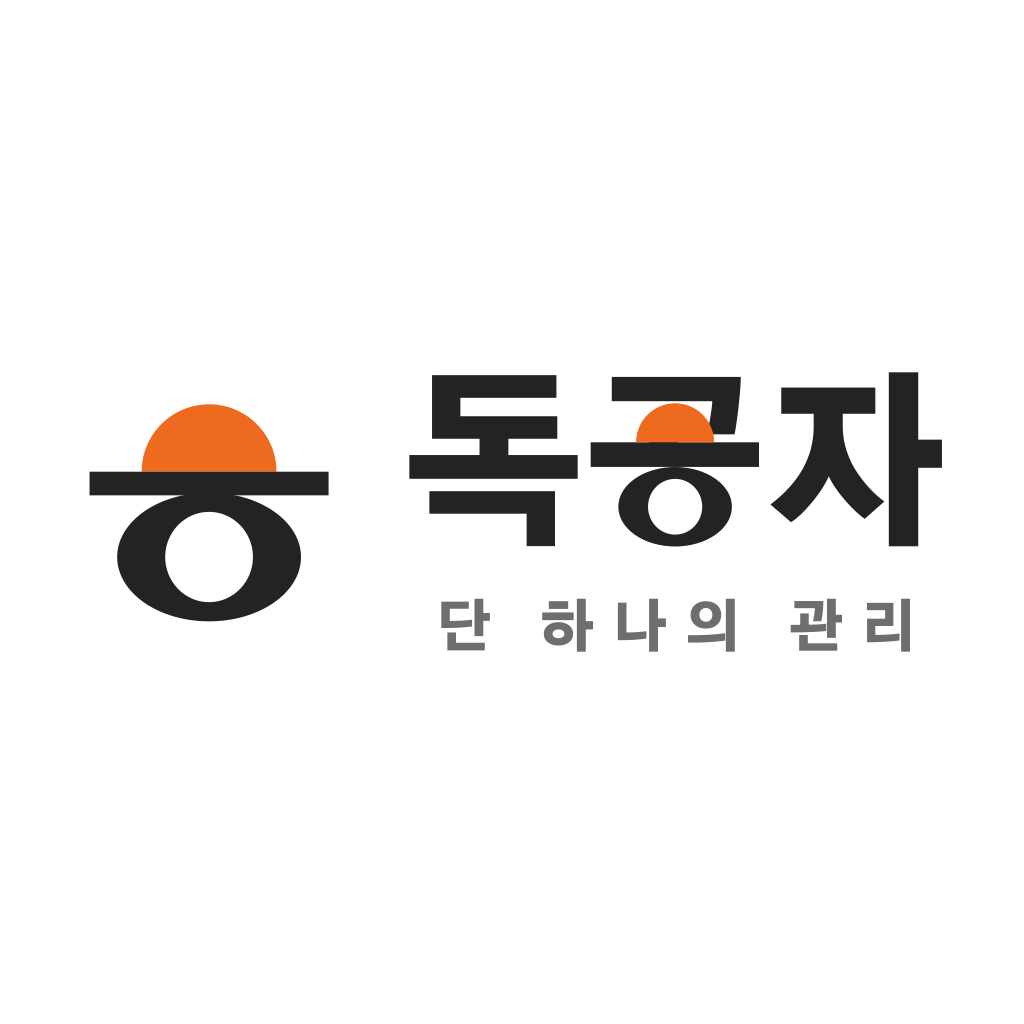
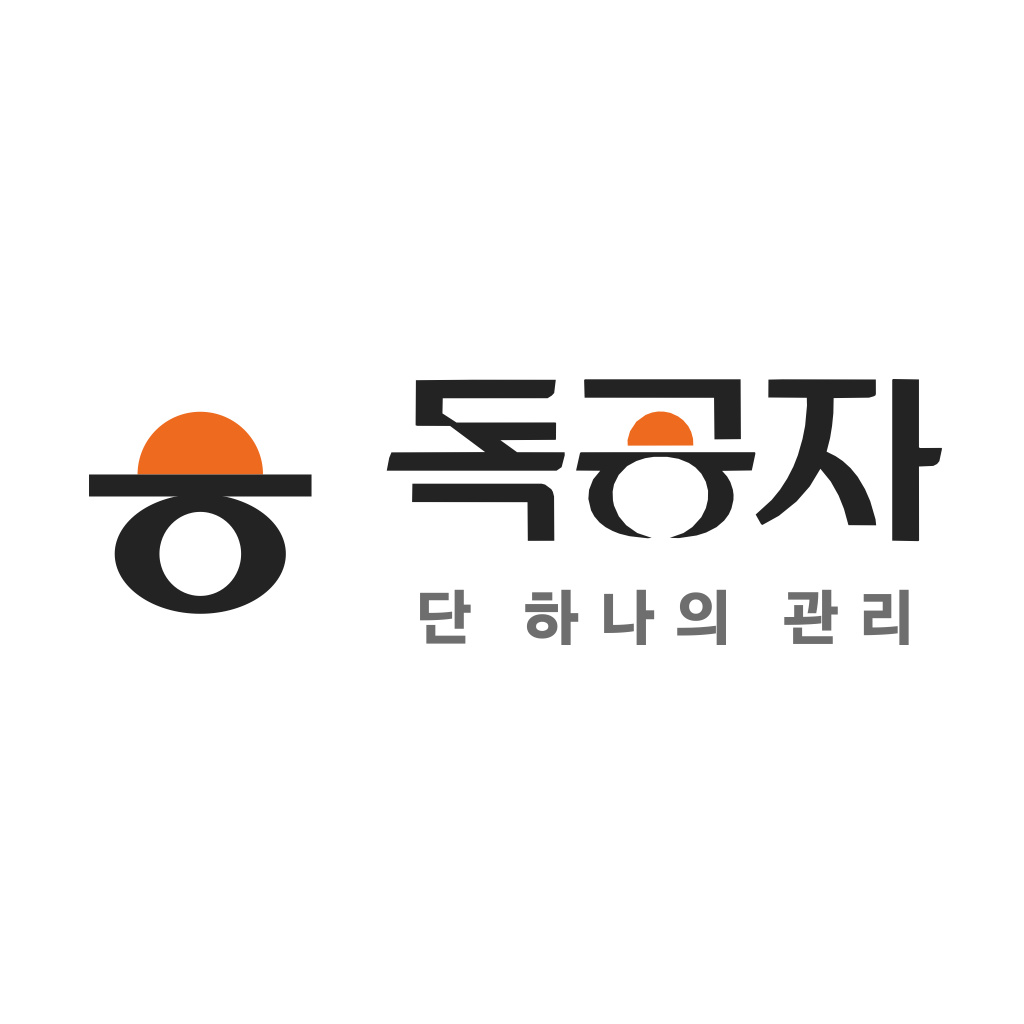
로고타입을 시안 자형 그대로 교체
서체로는 시안의 자형을 맞출 수 없어 — 시안의 글자는 어떤 서체에도
없는 형태다 — 시안 이미지를 벡터로 추출해 로고타입으로 삼는다.

- 6배 업스케일 후 경계 추적 + 허용오차 0.9px 단순화로 계단과 흔들림 제거
- 독의 꺾인 ㄷ, 공의 납작한 받침 ㅇ, 자의 벌어진 ㅈ 사선까지 시안과 동일
- 태그라인 '단 하나의 관리'만 Gothic A1 유지
- 가이드·홈페이지의 로고타입 비율(3.425)과 CSS 폭, 전달폴더 전부 재생성

diff --git a/site/index.html b/site/index.html
@@ -52,7 +52,7 @@ header.nav{position:sticky;top:env(safe-area-inset-top,0px);z-index:50;backgroun
   border-bottom:1px solid rgba(246,245,243,.12)}
 .nav .in{display:flex;align-items:center;gap:20px;padding-block:13px}
 .brand{display:flex;align-items:center;gap:11px;text-decoration:none;margin-right:auto}
-.brand .wm{display:block;height:auto;width:101px}
+.brand .wm{display:block;height:auto;width:113px}
 .navlinks{display:none;gap:26px}
 @media(min-width:860px){.navlinks{display:flex}}
 .navlinks a{color:var(--onDark-dim);text-decoration:none;font-size:14px;font-weight:500}
@@ -249,7 +249,7 @@ footer{background:var(--ink);color:var(--onDark-dim);padding-block:0 56px;font-s
 .sig{text-align:center;padding-block:clamp(56px,9vw,88px) clamp(48px,7vw,72px);
   border-bottom:1px solid rgba(246,245,243,.12)}
 .sig svg{display:block;margin:0 auto;--mk-ink:#F6F5F3}
-.signame{display:block;margin:clamp(24px,3.4vw,34px) auto 0;width:min(278px,64vw);height:auto;
+.signame{display:block;margin:clamp(24px,3.4vw,34px) auto 0;width:min(312px,66vw);height:auto;
   --mk-ink:#F6F5F3}
 .sigtag{font-family:var(--f-body);font-weight:500;color:var(--onDark-dim);line-height:1.4;
   font-size:clamp(11px,1.7vw,13.5px);letter-spacing:.4em;text-indent:.4em;margin-top:clamp(14px,2vw,20px)}
@@ -261,13 +261,13 @@ footer .legal{margin-top:28px;padding-top:22px;border-top:1px solid rgba(246,245
 @media (prefers-reduced-motion:reduce){*{animation:none!important;transition:none!important}}
 </style>
 
-<svg width="0" height="0" style="position:absolute;overflow:hidden" aria-hidden="true" focusable="false"><symbol id="mk" viewBox="0 0 200 200"><path fill="var(--mk-sun)" d="M47.0,68.30000000000001 a53.0,53.0 0 0,1 106.0,0 Z"/><rect x="6.0" y="68.30000000000001" width="188.0" height="18.6" fill="var(--mk-ink)"/><path fill="var(--mk-ink)" fill-rule="evenodd" d="M27.700000000000003,135.4 a72.3,50.6 0 1,0 144.6,0 a72.3,50.6 0 1,0 -144.6,0 Z M65.5,135.4 a34.5,35.5 0 1,0 69.0,0 a34.5,35.5 0 1,0 -69.0,0 Z"/></symbol><symbol id="lt" viewBox="0 0 367.0 120.0"><g transform="translate(-5.49,108.65) scale(0.12501)"><path fill="var(--mk-ink)" d="M154.3 -89.8V-213.9H846.7V88.9H690.4V-89.8ZM43.9 -282.2V-413.1H430.7V-560.5H589.8V-413.1H971.7V-282.2ZM168.9 -502.9V-853.5H854.5V-728.5H325.2V-627.0H859.4V-502.9Z"/><g transform="translate(999.5,0)"><path fill="var(--mk-ink)" d="M160.2 -710.0V-843.8H871.1Q871.1 -790.0 859.9 -688.0Q848.6 -585.9 836.9 -527.3H684.6Q695.3 -571.3 704.6 -629.9Q713.9 -688.5 713.9 -710.0Z"/><path fill="var(--mk-ink)" d="M43.9 -347.7V-483.4H365.2V-635.7H525.4V-483.4H971.7V-347.7Z"/><path fill="var(--mk-ink)" fill-rule="evenodd" d="M196.33102766798424,-128.2 a312.91897233201576,219.0 0 1,0 625.8379446640315,0 a312.91897233201576,219.0 0 1,0 -625.8379446640315,0 Z M359.9318181818182,-128.2 a149.3181818181818,153.64624505928853 0 1,0 298.6363636363636,0 a149.3181818181818,153.64624505928853 0 1,0 -298.6363636363636,0 Z"/><path fill="var(--mk-sun)" d="M294.25,-483.4 a215.0,215.0 0 0,1 430.0,0 Z"/></g><path fill="var(--mk-ink)" d="M2686.6 89.8V-869.1H2848.7V-498.0H2979.5V-342.8H2848.7V89.8ZM2034.2 -140.6Q2271.5 -320.3 2272.5 -568.4V-640.6H2093.8V-785.2H2612.3V-640.6H2432.7V-570.3Q2432.7 -500.0 2455.6 -432.1Q2478.6 -364.3 2515.2 -312.0Q2551.8 -259.8 2588.4 -221.7Q2625.0 -183.6 2662.1 -157.2L2553.8 -61.5Q2505.9 -94.7 2445.8 -163.6Q2385.8 -232.4 2355.5 -295.9Q2328.2 -231.4 2263.2 -152.8Q2198.3 -74.2 2147.5 -43.0Z"/></g></symbol></svg>
+<svg width="0" height="0" style="position:absolute;overflow:hidden" aria-hidden="true" focusable="false"><symbol id="mk" viewBox="0 0 200 200"><path fill="var(--mk-sun)" d="M47.0,68.30000000000001 a53.0,53.0 0 0,1 106.0,0 Z"/><rect x="6.0" y="68.30000000000001" width="188.0" height="18.6" fill="var(--mk-ink)"/><path fill="var(--mk-ink)" fill-rule="evenodd" d="M27.700000000000003,135.4 a72.3,50.6 0 1,0 144.6,0 a72.3,50.6 0 1,0 -144.6,0 Z M65.5,135.4 a34.5,35.5 0 1,0 69.0,0 a34.5,35.5 0 1,0 -69.0,0 Z"/></symbol><symbol id="lt" viewBox="0 0 411.0 120.0"><g transform="translate(-0.00,-0.00) scale(0.44150)"><g transform="translate(-69.3,-39.5)"><path fill="var(--mk-ink)" fill-rule="evenodd" d="M918.2,39.5 L961.5,40.2 L961.5,154.0 L963.2,155.2 L999.3,155.0 L1000.2,156.2 L995.7,177.3 L991.8,182.0 L985.5,185.2 L961.5,186.2 L961.7,310.3 L960.5,311.3 L916.7,310.5 L916.7,40.7 L918.2,39.5 Z M401.3,40.0 L662.5,40.0 L663.0,140.3 L618.7,140.7 L618.0,71.0 L401.0,70.8 L400.2,41.5 L401.3,40.0 Z M734.0,40.0 L889.2,40.3 L889.3,64.7 L888.5,67.0 L885.8,68.5 L877.8,70.8 L818.5,71.5 L818.0,96.8 L815.8,118.5 L812.5,138.7 L806.7,161.3 L821.7,168.8 L833.8,177.0 L846.8,188.8 L858.7,203.3 L871.0,224.0 L879.8,244.2 L888.7,274.7 L889.8,284.8 L843.3,284.5 L835.8,257.3 L826.8,234.8 L813.5,211.2 L796.3,190.0 L778.5,219.5 L756.3,244.8 L726.7,268.8 L699.0,284.2 L696.8,282.8 L687.8,266.7 L714.7,242.2 L728.7,225.0 L740.8,206.2 L751.0,186.3 L758.5,167.3 L766.3,140.0 L770.7,117.8 L773.8,84.2 L773.5,71.0 L709.0,70.5 L709.2,40.5 L734.0,40.0 Z M215.2,40.7 L352.7,40.8 L350.0,63.0 L346.0,67.3 L339.0,71.7 L163.2,71.8 L162.7,97.2 L186.3,112.5 L352.0,112.3 L353.2,113.3 L353.0,140.8 L352.0,141.5 L259.8,142.0 L287.8,162.2 L367.5,162.3 L367.7,167.2 L362.5,187.3 L354.0,193.2 L69.3,193.2 L73.5,171.5 L77.2,162.5 L234.2,162.0 L175.5,118.2 L120.2,118.0 L117.7,117.0 L118.2,41.5 L215.2,40.7 Z M448.8,162.2 L686.7,162.2 L687.3,164.7 L681.3,192.8 L631.5,193.5 L639.8,202.8 L645.3,212.2 L649.5,224.8 L650.7,233.7 L650.5,242.2 L647.2,256.5 L642.8,266.3 L635.0,276.8 L622.2,287.8 L604.8,296.8 L588.8,301.8 L559.2,306.2 L543.8,305.8 L566.8,297.7 L581.7,287.7 L596.7,271.2 L604.3,256.0 L607.7,242.0 L608.0,226.8 L604.2,211.8 L596.7,198.2 L586.8,187.7 L575.7,180.2 L558.7,173.3 L539.5,170.0 L517.0,170.0 L502.7,172.2 L487.8,177.0 L472.3,185.5 L458.2,200.2 L450.3,216.0 L448.0,228.3 L448.5,242.8 L450.3,251.7 L458.3,269.7 L470.8,284.7 L489.3,297.7 L513.5,305.8 L506.7,306.5 L476.2,303.0 L459.3,298.8 L447.8,294.2 L436.0,287.8 L426.0,280.0 L417.3,269.8 L411.8,259.7 L407.3,240.5 L408.5,225.2 L415.3,207.8 L427.2,193.3 L386.7,193.0 L393.2,164.0 L394.5,162.3 L448.8,162.2 Z M112.3,215.0 L329.0,215.0 L334.8,216.5 L345.2,224.2 L347.8,228.7 L349.8,236.5 L350.2,310.7 L305.8,310.8 L305.3,246.0 L111.8,245.8 L112.3,215.0 Z"/><path fill="var(--mk-sun)" fill-rule="evenodd" d="M524.0,94.0 L534.0,94.2 L545.0,96.3 L557.7,102.2 L566.2,108.5 L574.8,118.5 L579.7,128.2 L582.8,139.7 L583.2,151.0 L473.3,151.2 L473.0,141.8 L477.2,127.0 L487.8,111.0 L503.3,99.7 L514.0,95.7 L524.0,94.0 Z"/></g></g></symbol></svg>
 
 <header class="nav">
   <div class="in">
     <a class="brand" href="#top">
       <svg width="34" height="34" viewBox="0 0 200 200" aria-hidden="true" style="--mk-ink:#F6F5F3"><use href="#mk"/></svg>
-      <svg class="wm" width="101" height="33" viewBox="0 0 367.0 120.0" aria-label="독공자" style="--mk-ink:#F6F5F3"><use href="#lt"/></svg>
+      <svg class="wm" width="113" height="33" viewBox="0 0 411.0 120.0" aria-label="독공자" style="--mk-ink:#F6F5F3"><use href="#lt"/></svg>
     </a>
     <nav class="navlinks">
       <a href="#steps">3단 체계</a>
@@ -701,7 +701,7 @@ footer .legal{margin-top:28px;padding-top:22px;border-top:1px solid rgba(246,245
   <div class="in">
     <div class="sig">
       <svg width="118" height="118" viewBox="0 0 200 200" aria-hidden="true"><use href="#mk"/></svg>
-      <svg class="signame" width="278" height="91" viewBox="0 0 367.0 120.0" aria-label="독공자"><use href="#lt"/></svg>
+      <svg class="signame" width="312" height="91" viewBox="0 0 411.0 120.0" aria-label="독공자"><use href="#lt"/></svg>
       <p class="sigtag">단 하나의 관리</p>
     </div>
     <div class="top">

diff --git a/brand/dokgongja-brand-guide.html b/brand/dokgongja-brand-guide.html
@@ -201,7 +201,7 @@ footer a{color:var(--grey)}
 @media (prefers-reduced-motion:reduce){*{animation:none!important;transition:none!important}}
 </style>
 
-<svg width="0" height="0" style="position:absolute;overflow:hidden" aria-hidden="true" focusable="false"><symbol id="mk" viewBox="0 0 200 200"><path fill="var(--mk-sun)" d="M47.0,68.30000000000001 a53.0,53.0 0 0,1 106.0,0 Z"/><rect x="6.0" y="68.30000000000001" width="188.0" height="18.6" fill="var(--mk-ink)"/><path fill="var(--mk-ink)" fill-rule="evenodd" d="M27.700000000000003,135.4 a72.3,50.6 0 1,0 144.6,0 a72.3,50.6 0 1,0 -144.6,0 Z M65.5,135.4 a34.5,35.5 0 1,0 69.0,0 a34.5,35.5 0 1,0 -69.0,0 Z"/></symbol><symbol id="lt" viewBox="0 0 367.0 120.0"><g transform="translate(-5.49,108.65) scale(0.12501)"><path fill="var(--mk-ink)" d="M154.3 -89.8V-213.9H846.7V88.9H690.4V-89.8ZM43.9 -282.2V-413.1H430.7V-560.5H589.8V-413.1H971.7V-282.2ZM168.9 -502.9V-853.5H854.5V-728.5H325.2V-627.0H859.4V-502.9Z"/><g transform="translate(999.5,0)"><path fill="var(--mk-ink)" d="M160.2 -710.0V-843.8H871.1Q871.1 -790.0 859.9 -688.0Q848.6 -585.9 836.9 -527.3H684.6Q695.3 -571.3 704.6 -629.9Q713.9 -688.5 713.9 -710.0Z"/><path fill="var(--mk-ink)" d="M43.9 -347.7V-483.4H365.2V-635.7H525.4V-483.4H971.7V-347.7Z"/><path fill="var(--mk-ink)" fill-rule="evenodd" d="M196.33102766798424,-128.2 a312.91897233201576,219.0 0 1,0 625.8379446640315,0 a312.91897233201576,219.0 0 1,0 -625.8379446640315,0 Z M359.9318181818182,-128.2 a149.3181818181818,153.64624505928853 0 1,0 298.6363636363636,0 a149.3181818181818,153.64624505928853 0 1,0 -298.6363636363636,0 Z"/><path fill="var(--mk-sun)" d="M294.25,-483.4 a215.0,215.0 0 0,1 430.0,0 Z"/></g><path fill="var(--mk-ink)" d="M2686.6 89.8V-869.1H2848.7V-498.0H2979.5V-342.8H2848.7V89.8ZM2034.2 -140.6Q2271.5 -320.3 2272.5 -568.4V-640.6H2093.8V-785.2H2612.3V-640.6H2432.7V-570.3Q2432.7 -500.0 2455.6 -432.1Q2478.6 -364.3 2515.2 -312.0Q2551.8 -259.8 2588.4 -221.7Q2625.0 -183.6 2662.1 -157.2L2553.8 -61.5Q2505.9 -94.7 2445.8 -163.6Q2385.8 -232.4 2355.5 -295.9Q2328.2 -231.4 2263.2 -152.8Q2198.3 -74.2 2147.5 -43.0Z"/></g></symbol></svg>
+<svg width="0" height="0" style="position:absolute;overflow:hidden" aria-hidden="true" focusable="false"><symbol id="mk" viewBox="0 0 200 200"><path fill="var(--mk-sun)" d="M47.0,68.30000000000001 a53.0,53.0 0 0,1 106.0,0 Z"/><rect x="6.0" y="68.30000000000001" width="188.0" height="18.6" fill="var(--mk-ink)"/><path fill="var(--mk-ink)" fill-rule="evenodd" d="M27.700000000000003,135.4 a72.3,50.6 0 1,0 144.6,0 a72.3,50.6 0 1,0 -144.6,0 Z M65.5,135.4 a34.5,35.5 0 1,0 69.0,0 a34.5,35.5 0 1,0 -69.0,0 Z"/></symbol><symbol id="lt" viewBox="0 0 411.0 120.0"><g transform="translate(-0.00,-0.00) scale(0.44150)"><g transform="translate(-69.3,-39.5)"><path fill="var(--mk-ink)" fill-rule="evenodd" d="M918.2,39.5 L961.5,40.2 L961.5,154.0 L963.2,155.2 L999.3,155.0 L1000.2,156.2 L995.7,177.3 L991.8,182.0 L985.5,185.2 L961.5,186.2 L961.7,310.3 L960.5,311.3 L916.7,310.5 L916.7,40.7 L918.2,39.5 Z M401.3,40.0 L662.5,40.0 L663.0,140.3 L618.7,140.7 L618.0,71.0 L401.0,70.8 L400.2,41.5 L401.3,40.0 Z M734.0,40.0 L889.2,40.3 L889.3,64.7 L888.5,67.0 L885.8,68.5 L877.8,70.8 L818.5,71.5 L818.0,96.8 L815.8,118.5 L812.5,138.7 L806.7,161.3 L821.7,168.8 L833.8,177.0 L846.8,188.8 L858.7,203.3 L871.0,224.0 L879.8,244.2 L888.7,274.7 L889.8,284.8 L843.3,284.5 L835.8,257.3 L826.8,234.8 L813.5,211.2 L796.3,190.0 L778.5,219.5 L756.3,244.8 L726.7,268.8 L699.0,284.2 L696.8,282.8 L687.8,266.7 L714.7,242.2 L728.7,225.0 L740.8,206.2 L751.0,186.3 L758.5,167.3 L766.3,140.0 L770.7,117.8 L773.8,84.2 L773.5,71.0 L709.0,70.5 L709.2,40.5 L734.0,40.0 Z M215.2,40.7 L352.7,40.8 L350.0,63.0 L346.0,67.3 L339.0,71.7 L163.2,71.8 L162.7,97.2 L186.3,112.5 L352.0,112.3 L353.2,113.3 L353.0,140.8 L352.0,141.5 L259.8,142.0 L287.8,162.2 L367.5,162.3 L367.7,167.2 L362.5,187.3 L354.0,193.2 L69.3,193.2 L73.5,171.5 L77.2,162.5 L234.2,162.0 L175.5,118.2 L120.2,118.0 L117.7,117.0 L118.2,41.5 L215.2,40.7 Z M448.8,162.2 L686.7,162.2 L687.3,164.7 L681.3,192.8 L631.5,193.5 L639.8,202.8 L645.3,212.2 L649.5,224.8 L650.7,233.7 L650.5,242.2 L647.2,256.5 L642.8,266.3 L635.0,276.8 L622.2,287.8 L604.8,296.8 L588.8,301.8 L559.2,306.2 L543.8,305.8 L566.8,297.7 L581.7,287.7 L596.7,271.2 L604.3,256.0 L607.7,242.0 L608.0,226.8 L604.2,211.8 L596.7,198.2 L586.8,187.7 L575.7,180.2 L558.7,173.3 L539.5,170.0 L517.0,170.0 L502.7,172.2 L487.8,177.0 L472.3,185.5 L458.2,200.2 L450.3,216.0 L448.0,228.3 L448.5,242.8 L450.3,251.7 L458.3,269.7 L470.8,284.7 L489.3,297.7 L513.5,305.8 L506.7,306.5 L476.2,303.0 L459.3,298.8 L447.8,294.2 L436.0,287.8 L426.0,280.0 L417.3,269.8 L411.8,259.7 L407.3,240.5 L408.5,225.2 L415.3,207.8 L427.2,193.3 L386.7,193.0 L393.2,164.0 L394.5,162.3 L448.8,162.2 Z M112.3,215.0 L329.0,215.0 L334.8,216.5 L345.2,224.2 L347.8,228.7 L349.8,236.5 L350.2,310.7 L305.8,310.8 L305.3,246.0 L111.8,245.8 L112.3,215.0 Z"/><path fill="var(--mk-sun)" fill-rule="evenodd" d="M524.0,94.0 L534.0,94.2 L545.0,96.3 L557.7,102.2 L566.2,108.5 L574.8,118.5 L579.7,128.2 L582.8,139.7 L583.2,151.0 L473.3,151.2 L473.0,141.8 L477.2,127.0 L487.8,111.0 L503.3,99.7 L514.0,95.7 L524.0,94.0 Z"/></g></g></symbol></svg>
 <div class="wrap">
 <div class="shell">
 
@@ -605,7 +605,7 @@ footer a{color:var(--grey)}
     <div class="lock-h" style="--g:28px">
       <svg class="mark" width="92" height="92" viewBox="0 0 200 200" aria-label="독공자 심벌"><use href="#mk"/></svg>
       <div>
-        <svg width="229" height="75" viewBox="0 0 367.0 120.0" aria-label="독공자"><use href="#lt"/></svg>
+        <svg width="257" height="75" viewBox="0 0 411.0 120.0" aria-label="독공자"><use href="#lt"/></svg>
         <div class="en-s" style="font-size:11px;margin-top:10px;letter-spacing:.34em">단 하나의 관리</div>
       </div>
     </div>
@@ -643,7 +643,7 @@ footer a{color:var(--grey)}
     </div>
     <div>
       <div class="specimen" style="min-height:150px">
-        <svg width="245" height="80" viewBox="0 0 367.0 120.0" aria-label="독공자"><use href="#lt"/></svg>
+        <svg width="274" height="80" viewBox="0 0 411.0 120.0" aria-label="독공자"><use href="#lt"/></svg>
       </div>
       <p class="cap">로고타입 — 이름을 읽혀야 하는 자리</p>
     </div>
@@ -652,7 +652,7 @@ footer a{color:var(--grey)}
         <div class="lock-v">
           <svg width="66" height="66" viewBox="0 0 200 200" aria-hidden="true"><use href="#mk"/></svg>
           <div>
-            <svg width="156" height="51" viewBox="0 0 367.0 120.0" aria-hidden="true"><use href="#lt"/></svg>
+            <svg width="175" height="51" viewBox="0 0 411.0 120.0" aria-hidden="true"><use href="#lt"/></svg>
             <div class="en-s" style="font-size:8.5px;margin-top:9px;letter-spacing:.34em">단 하나의 관리</div>
           </div>
         </div>
@@ -663,7 +663,7 @@ footer a{color:var(--grey)}
       <div class="specimen dark" style="min-height:150px">
         <div class="lock-h" style="--g:22px;--mk-ink:#F6F5F3">
           <svg width="62" height="62" viewBox="0 0 200 200" aria-hidden="true"><use href="#mk"/></svg>
-          <svg width="156" height="51" viewBox="0 0 367.0 120.0" aria-hidden="true" style="--mk-ink:#F6F5F3"><use href="#lt"/></svg>
+          <svg width="175" height="51" viewBox="0 0 411.0 120.0" aria-hidden="true" style="--mk-ink:#F6F5F3"><use href="#lt"/></svg>
         </div>
       </div>
       <p class="cap">반전형 — 어두운 배경에서 먹을 흰색으로. 태양은 그대로</p>
